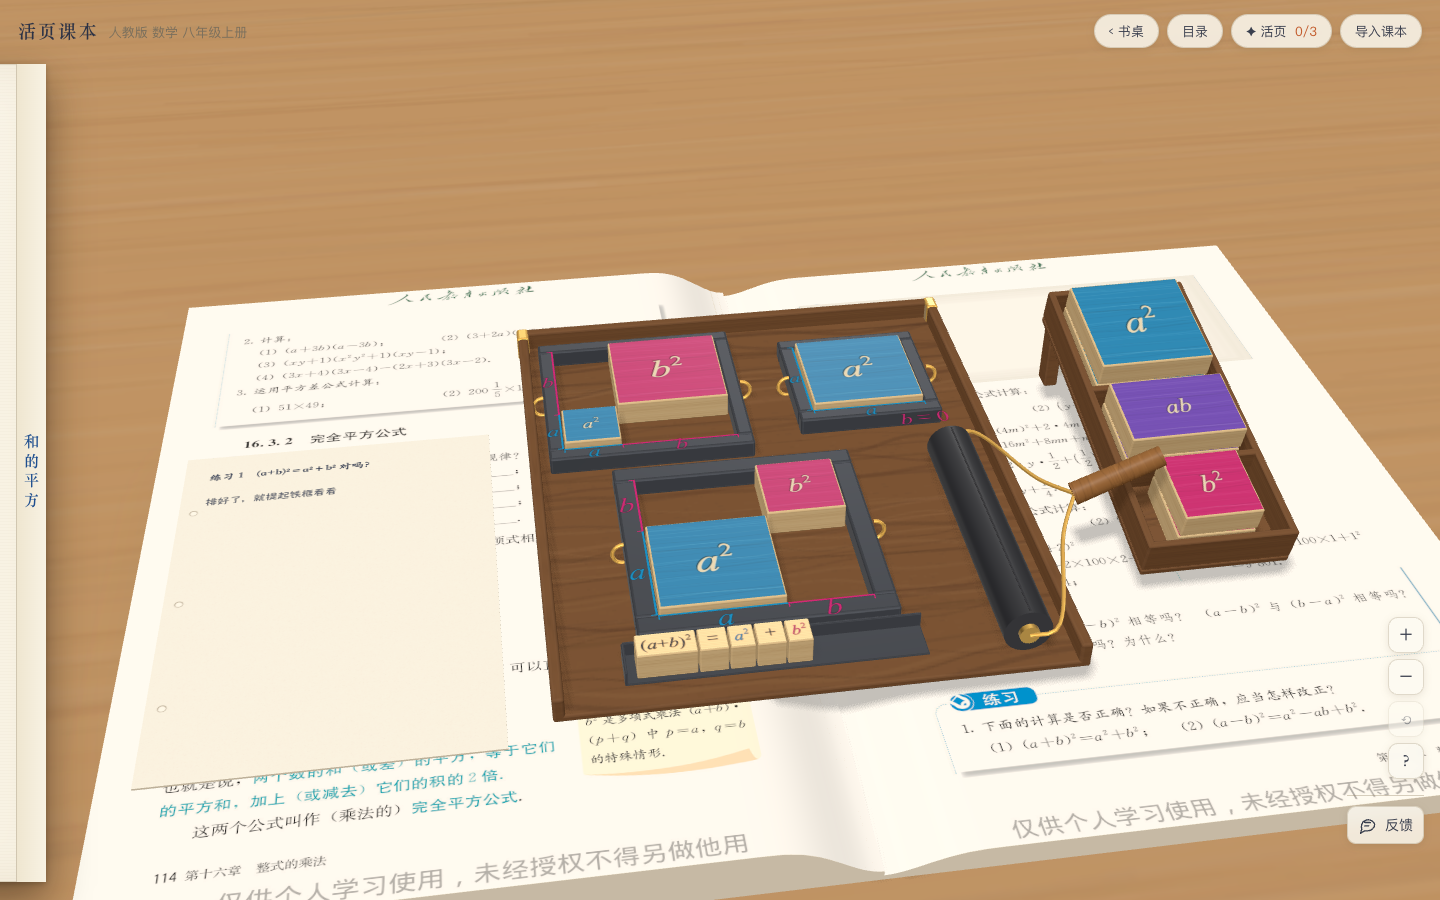
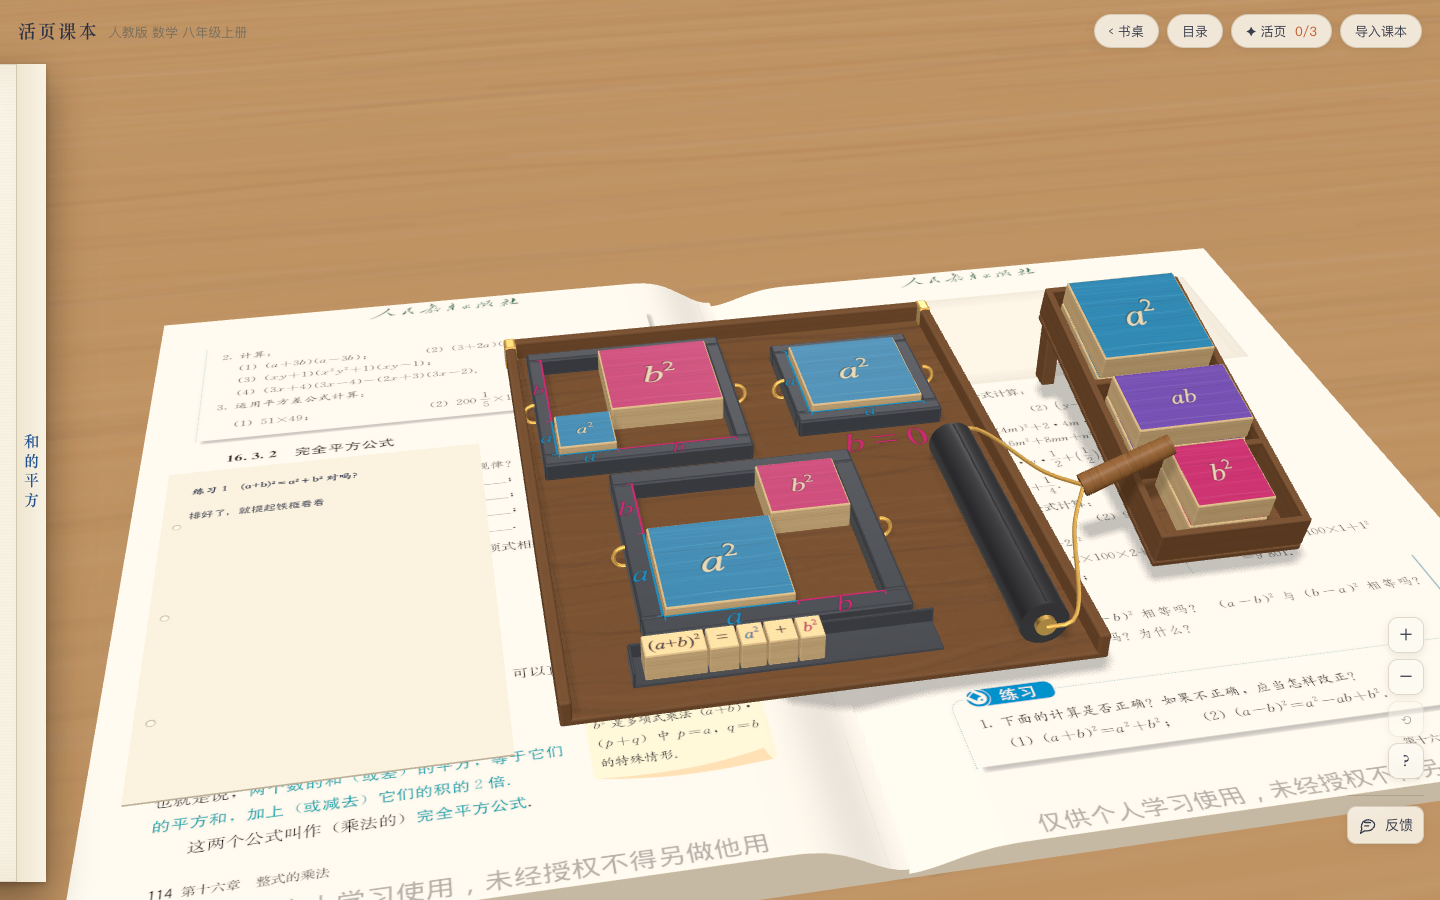
和的平方（试做）：提起铁框先一起升到顶、停半拍，没锁住的字块再滑出来摔下去；右后 b＝0 的框能拖框边换一个 b，自己找反例；a、b 字刻大，托盘木纹压淡

diff --git a/src/lessons/huozi.js b/src/lessons/huozi.js
@@ -123,19 +123,33 @@ export default {
     // ---- 铁框 ----
     const chases = [];
     const makeChase = (spec, isHero) => {
-      const C = cellsOf(spec.a, spec.b), Sz = C.S, front = [], left = [];
+      const c = { spec: { ...spec }, C: null, frame: null, hero: isHero, set: {}, proud: [], ok: false };
+      buildFrame(c);
+      chases.push(c);
+      return c;
+    };
+    function buildFrame(c) {
+      const spec = c.spec, isHero = c.hero, C = cellsOf(spec.a, spec.b), Sz = C.S, front = [], left = [];
+      if (c.frame) { root.remove(c.frame); c.frame.traverse((o) => { if (o.isMesh) o.geometry.dispose(); }); }
       if (spec.a) { front.push({ from: 0, to: spec.a * U, hue: HUE.a, label: 'a' }); left.push({ from: spec.b * U, to: Sz, hue: HUE.a, label: 'a' }); }
       if (spec.b) { front.push({ from: spec.a * U, to: Sz, hue: HUE.b, label: 'b' }); left.push({ from: 0, to: spec.b * U, hue: HUE.b, label: 'b' }); }
       const bar = isHero ? CHASE.bar : 0.009, frame = chaseFrame(Sz, Sz, { front, left, bar, labelH: isHero ? 0.017 : 0.014 });
       frame.position.set(spec.x, GF, spec.z);
+      frame.traverse((o) => { o.userData.noFrame = true; });
       root.add(frame);
-      if (!spec.b) { const t = labelMesh([['b', 'i'], ['＝0', 'n']], HUE.b, 0.014); t.position.set(Sz / 2 - 0.004, CHASE.h + 0.0003, Sz / 2 + bar + 0.0085); frame.add(t); }
-      const c = { spec, C, frame, hero: isHero, set: {}, proud: [], ok: false };
-      chases.push(c);
-      return c;
-    };
+      c.C = C; c.frame = frame;
+      if (c.resizable) {
+        // b＝0 写在框前面的托盘上，字大一点；右边一条看不见的拾取条，拖它就是改 b
+        if (c.zeroTag) { root.remove(c.zeroTag); c.zeroTag = null; }
+        if (!spec.b) { const t = labelMesh([['b', 'i'], ['＝0', 'n']], HUE.b, 0.024); t.position.set(spec.x + 0.006, GF + 0.0004, spec.z + Sz / 2 + bar + 0.012); root.add(t); c.zeroTag = t; }
+        // 只占右边框的后半截，前半截留给铜把手
+        const zd = Sz / 2 + bar - 0.015, pick = new THREE.Mesh(new THREE.BoxGeometry(bar + 0.012, 0.03, zd), new THREE.MeshBasicMaterial({ visible: false }));
+        pick.position.set(Sz / 2 + bar / 2 + 0.003, 0.012, -Sz / 2 - bar + zd / 2); pick.userData.pick = true; pick.userData.noFrame = true; frame.add(pick);
+        c.sizer = pick;
+      }
+    }
     const hero = makeChase(HERO, true);
-    const fam = FAM.map((f) => makeChase(f, false));
+    const fam = FAM.map((f, i) => { if (i === 1) { const c = { spec: { ...f }, C: null, frame: null, hero: false, set: {}, proud: [], ok: false, resizable: true }; buildFrame(c); chases.push(c); return c; } return makeChase(f, false); });
     const piecesOf = (c) => [...KEYS.map((k) => c.set[k]).filter(Boolean), ...c.proud];
     const locked = (c) => KEYS.every((k) => !live(c.C[k]) || c.set[k]) && !c.proud.length;
 
@@ -338,36 +352,36 @@ export default {
       S.busy = true;
       const res = chases.map((c) => (c.ok = locked(c)));
       const r = (k) => (Math.random() - 0.5) * k;
-      for (const c of chases) for (const p of piecesOf(c)) { p.v++; const [w, d] = dimsOf(p.kind, c.spec.a, c.spec.b); p.drop = { tx: r(0.012), tz: r(0.012), rx: r(0.36), rz: r(0.36), ry: r(0.25), half: Math.max(w, d) / 2 }; }
+      for (const c of chases) for (const p of piecesOf(c)) { p.v++; const [w, d] = dimsOf(p.kind, c.spec.a, c.spec.b); p.drop = { tx: r(0.012), tz: r(0.012), rx: r(0.36), rz: r(0.36), ry: r(0.25), half: Math.max(w, d) / 2, jx: r(0.004), jz: r(0.004) }; }
       sfx.whoosh({ dur: 0.5, freq: 280, gain: 0.05 });
       let rang = false;
-      const D = 2.7, up = (t) => (t < 0.55 ? easeOut(t / 0.55) : t < 2 ? 1 : 1 - smooth(clamp((t - 2) / 0.65, 0, 1)));
+      // 0–0.55 一起升上去；停到 0.85；没锁住的先晃一下（0.85–0.97），再滑出来往下掉（0.97–1.22），落地弹一下、歪倒；2.3 起铁框放下，字块摆正
+      const D = 2.95, T0 = 0.85, T1 = 0.97, T2 = 1.22, DOWN = 2.3;
+      const up = (t) => (t < 0.55 ? easeOut(t / 0.55) : t < DOWN ? 1 : 1 - smooth(clamp((t - DOWN) / 0.6, 0, 1)));
       tw.to(D, (k) => {
         const t = k * D, e = up(t);
         for (const c of chases) {
           c.frame.position.y = GF + LIFT * e;
           for (const p of piecesOf(c)) {
             const b = p.base; if (!b) continue;
-            if (c.ok) { p.g.position.set(b.x, b.y + LIFT * e, b.z); p.g.rotation.set(0, b.ry, 0); continue; }
-            // 没锁住：被铁框带起来一截，接着滑出来，摔回托盘上歪倒；铁框放下时摆正
-            const T0 = 0.3, T1 = 0.56, top = LIFT * up(T0) * 0.85;
-            let y = b.y;
-            if (t < T0) y = b.y + LIFT * up(t) * 0.85;
-            else if (t < T1) { const f = (t - T0) / (T1 - T0); y = b.y + top * (1 - f * f); }
-            else if (t < T1 + 0.14) y = b.y + Math.sin((Math.PI * (t - T1)) / 0.14) * 0.004;
-            const tilt = t < T1 ? 0 : t < T1 + 0.12 ? (t - T1) / 0.12 : t < 2 ? 1 : 1 - smooth(clamp((t - 2) / 0.65, 0, 1));
+            if (c.ok || t < T0) { p.g.position.set(b.x, b.y + LIFT * e, b.z); p.g.rotation.set(0, b.ry, 0); continue; }
+            let y = b.y, jig = 0;
+            if (t < T1) { y = b.y + LIFT; jig = Math.sin(((t - T0) / (T1 - T0)) * Math.PI * 3) * (1 - (t - T0) / (T1 - T0)); }
+            else if (t < T2) { const f = (t - T1) / (T2 - T1); y = b.y + LIFT * (1 - f * f); }
+            else if (t < T2 + 0.14) y = b.y + Math.sin((Math.PI * (t - T2)) / 0.14) * 0.004;
+            const tilt = t < T2 ? 0 : t < T2 + 0.12 ? (t - T2) / 0.12 : t < DOWN ? 1 : 1 - smooth(clamp((t - DOWN) / 0.6, 0, 1));
             const ax = p.drop.rx * tilt, az = p.drop.rz * tilt;
-            p.g.position.set(b.x + p.drop.tx * tilt, y + p.drop.half * Math.sin(Math.max(Math.abs(ax), Math.abs(az))), b.z + p.drop.tz * tilt);
+            p.g.position.set(b.x + p.drop.tx * tilt + p.drop.jx * jig, y + p.drop.half * Math.sin(Math.max(Math.abs(ax), Math.abs(az))), b.z + p.drop.tz * tilt + p.drop.jz * jig);
             p.g.rotation.set(ax, b.ry + p.drop.ry * tilt, az);
           }
         }
-        if (t > 0.56 && !rang) { rang = true; if (res.every(Boolean)) sfx.ding(660, { gain: 0.06 }); else clatter(); }
+        if (t > T0 && !rang) { rang = true; if (res.every(Boolean)) sfx.ding(660, { gain: 0.06 }); else setTimeout(() => { if (!dead) clatter(); }, (T2 - T0) * 1000); }
       }, () => {
         for (const c of chases) { c.frame.position.y = GF; for (const p of piecesOf(c)) if (p.base) { p.g.position.set(p.base.x, p.base.y, p.base.z); p.g.rotation.set(0, p.base.ry, 0); } }
         S.busy = false; S.lifted++; S.liftedSince = true; S.last = res; hint();
       });
     }
-    const handleTaps = chases.flatMap((c) => c.frame.handles.map((h) => ({ obj: h, enabled: () => !S.busy && !S.rolling, hint: () => '提起铁框：排满了，整版一起起来', onTap: lift })));
+    const handleTaps = chases.flatMap((c) => [0, 1].map((i) => ({ get obj() { return c.frame.handles[i]; }, enabled: () => !S.busy && !S.rolling, hint: () => '提起铁框：排满了，整版一起起来', onTap: lift })));
 
     // ---- 墨辊和印 ----
     const yFloor = GF + ROLL.r, yTop = GF + TYPE_H + 0.0012 + ROLL.r, yPaper = 0.0004 + ROLL.r;
@@ -436,7 +450,26 @@ export default {
       },
     };
 
+    const sizeC = fam[1], B_MAX = 1.5;
+    let sizeFrom = null;          // 拖框边从哪儿开始、那时 b 是多少：拖多少改多少，不会一抓就跳
+    const resize = (b) => {
+      if (Math.abs(b - sizeC.spec.b) < 1e-6) return;
+      for (const p of piecesOf(sizeC)) killPiece(p);
+      sizeC.set = {}; sizeC.proud = [];
+      sizeC.spec.b = b; buildFrame(sizeC);
+      syncFamily(0); S.liftedSince = false; S.last = null; hint();
+      sfx.clink({ freq: 900 + 160 * b, gain: 0.02 });
+    };
+    const sizeDrag = {
+      get obj() { return sizeC.sizer; }, plane: 'xz', offset: GF + CHASE.h,
+      enabled: () => !S.busy && !S.rolling,
+      hint: () => '拖框边：把 <i>b</i> 换一个数',
+      onStart: (q) => { S.held = 'sizer'; sizeFrom = q ? [q.x, sizeC.spec.b] : null; },
+      onDrag: (q) => { if (!sizeFrom) { sizeFrom = [q.x, sizeC.spec.b]; return; } resize(clamp(Math.round((sizeFrom[1] + (2 * (q.x - sizeFrom[0])) / U) * 4) / 4, 0, B_MAX)); },
+      onEnd: () => { S.held = null; },
+    };
     const pointer = draggable(root, drags, { tip, taps: [...handleTaps, ...gapTaps] });
+    drags.push(sizeDrag);
     drags.push(...caseDrags, rollDrag);
 
     // ---- 取景：只认这个看不见的盒子 ----
@@ -456,12 +489,12 @@ export default {
         return say('多出来的字块，印到正方形外面去了', '多放的字块搁在别的字上面，印出来叠在一起：<b>多了</b>。<br>把多的拿回字盘，再印一次。');
       }
       if (!any) return say('照你想的排：(a+b)² 用哪几块字？', '课本练习问：(<i>a</i>＋<i>b</i>)²＝<i>a</i>²＋<i>b</i>² 对吗？<br>从右边的<b>字盘</b>里，把你觉得该用的字块拖进前面的铁框（点一下字盘也行）。手托上会排出你的式子。');
-      if (!S.liftedSince) return say('排好了，就提起铁框看看', '后面两个铁框大小不一样，也照你的排法排上了。<br>点铁框两边的<b>铜把手</b>，提起来：排满了，整版一起起来；没排满，字块会掉下去。');
+      if (!S.liftedSince) return say('排好了，就提起铁框看看', `后面两个铁框大小不一样，也照你的排法排上了${sizeC.spec.b ? '' : '（右后那个 <i>b</i>＝0，框边拖得动，可以换一个 <i>b</i>）'}。<br>点铁框两边的<b>铜把手</b>，提起来：排满了，整版一起起来；没排满，字块会掉下去。`);
       const [h, ...f] = S.last || [];
       if (h && f.every(Boolean)) return say('三版都提起来了。推墨辊，印到活页上', '三个大小的版都排满了，整版提了起来：不管 <i>a</i>、<i>b</i> 多大，都是 <i>a</i>²、<i>ab</i>、<i>ab</i>、<i>b</i>² 四块。<br>把<b>墨辊</b>往左推：滚过字版和手托，再滚到左边的活页上。');
       const gaps = KEYS.filter((k) => live(hero.C[k]) && !hero.set[k]).length, held = f.map((x, i) => (x ? i : -1)).filter((i) => i >= 0);
-      const zero = held.some((i) => !FAM[i].b);
-      if (!h && gaps) return say(`前面这版掉了：框里还空着 ${gaps} 块`, `提起来，前面这一版的字块<b>掉了</b>：框里还空着 ${gaps} 块。${zero ? '后面 <i>b</i>＝0 的那一版倒是提起来了——那里根本没有中间那两块。' : ''}<br>把鼠标移到空着的地方，看看它的两条边是什么。`);
+      const zero = held.some((i) => !fam[i].spec.b);
+      if (!h && gaps) return say(`前面这版掉了：框里还空着 ${gaps} 块`, `提起来，前面这一版的字块<b>掉了</b>：框里还空着 ${gaps} 块。${zero ? '后面 <i>b</i>＝0 的那一版倒是提起来了——那里根本没有中间那两块。拖它的框边，把 <i>b</i> 换个数再提一次。' : ''}<br>把鼠标移到空着的地方，看看它的两条边是什么。`);
       if (!h) return say('多放了字块，锁不住', '有字块没地方放，搁在别的字上面，铁框锁不住，提起来就掉。<br>把多的拖回字盘。');
       return say('前面这版提起来了，后面的呢？', '前面这一版排满了。后面不同大小的版，有没有掉下去的？');
     }
@@ -476,7 +509,7 @@ export default {
       place: 'spread',
       scale: 1,
       size: { w: 0.6, d: 0.345, h: 0.07 },
-      view: { elev: 37, azim: -8, lookY: 0.2, frameMargin: 1.0 },
+      view: { elev: 35, azim: -10, lookY: 0.2, frameMargin: 0.97 },
       pointer,
       mount(u) { ui = u; hint(); },
       dispose() { dead = true; tip?.remove?.(); },
@@ -497,7 +530,7 @@ export default {
         for (const c of chases) for (const o of c.frame.children) if (o.userData.handle) o.rotation.x = wantLift ? -0.35 * bump : 0;
         if (!S.rolling && S.last && S.last.every(Boolean) && S.liftedSince && S.ink !== 'printed') rol.spin.rotation.z = (ROLL.rest - S.rx) / ROLL.r + 0.25 * bump;
       },
-      test: { S, hero, fam, chases, U, HERO, ROLL, STICK, lift, setRoll, locked, put: (kind) => { const p = makePiece(kind, HERO.a, HERO.b); p.g.position.set(CASE.x, HOLD, CASE.z); putHero(p); return p; }, take: (key) => { const p = hero.set[key]; if (p) toCase(p); }, stackAt: (kind) => { root.updateMatrixWorld(true); return root.worldToLocal(stackTop[kind].getWorldPosition(new THREE.Vector3())).toArray(); }, handleAt: () => { root.updateMatrixWorld(true); return root.worldToLocal(hero.frame.handles[1].getWorldPosition(new THREE.Vector3())).toArray(); } },
+      test: { S, hero, fam, chases, U, HERO, ROLL, STICK, lift, setRoll, locked, resize, sizerAt: () => { root.updateMatrixWorld(true); return root.worldToLocal(sizeC.sizer.getWorldPosition(new THREE.Vector3())).toArray(); }, put: (kind) => { const p = makePiece(kind, HERO.a, HERO.b); p.g.position.set(CASE.x, HOLD, CASE.z); putHero(p); return p; }, take: (key) => { const p = hero.set[key]; if (p) toCase(p); }, stackAt: (kind) => { root.updateMatrixWorld(true); return root.worldToLocal(stackTop[kind].getWorldPosition(new THREE.Vector3())).toArray(); }, handleAt: () => { root.updateMatrixWorld(true); return root.worldToLocal(hero.frame.handles[1].getWorldPosition(new THREE.Vector3())).toArray(); } },
     };
   },
 };

diff --git a/src/lessons/kit/type.js b/src/lessons/kit/type.js
@@ -40,15 +40,15 @@ export function envTick() {
 const rng = (seed) => { let s = seed % 2147483647 || 1; return () => ((s = (s * 16807) % 2147483647) / 2147483647); };
 const woodCache = new Map();
 /** 顺纹的木头：年轮细线沿着贴图的横向走 */
-export function wood({ base = '#e0c597', dark = '#9b7442', light = '#f3e2bd', rings = 54, seed = 7 } = {}) {
-  const key = [base, dark, light, rings, seed].join();
+export function wood({ base = '#e0c597', dark = '#9b7442', light = '#f3e2bd', rings = 54, seed = 7, contrast = 1 } = {}) {
+  const key = [base, dark, light, rings, seed, contrast].join();
   if (woodCache.has(key)) return woodCache.get(key);
   const w = 512, h = 256, c = document.createElement('canvas'); c.width = w; c.height = h;
   const g = c.getContext('2d'), rnd = rng(seed);
   g.fillStyle = base; g.fillRect(0, 0, w, h);
   for (let i = 0; i < rings; i++) {
     const y0 = rnd() * h, amp = 1.5 + rnd() * 5, f = 0.004 + rnd() * 0.012, ph = rnd() * 6.28;
-    g.strokeStyle = rnd() < 0.72 ? dark : light; g.globalAlpha = 0.1 + rnd() * 0.2; g.lineWidth = 0.6 + rnd() * 2.4;
+    g.strokeStyle = rnd() < 0.72 ? dark : light; g.globalAlpha = (0.1 + rnd() * 0.2) * contrast; g.lineWidth = 0.6 + rnd() * 2.4;
     g.beginPath();
     for (let x = 0; x <= w; x += 8) { const y = y0 + Math.sin(x * f + ph) * amp + Math.sin(x * f * 3.3 + ph * 2) * amp * 0.35; if (x) g.lineTo(x, y); else g.moveTo(x, y); }
     g.stroke();
@@ -67,7 +67,7 @@ export function mats() {
   if (MAT) return MAT;
   MAT = {
     maple: new THREE.MeshStandardMaterial({ map: wood(), roughness: 0.62, metalness: 0 }),
-    walnut: new THREE.MeshStandardMaterial({ map: wood({ base: '#7b5536', dark: '#4a3020', light: '#97704c', seed: 3, rings: 60 }), roughness: 0.55, metalness: 0 }),
+    walnut: new THREE.MeshStandardMaterial({ map: wood({ base: '#7b5536', dark: '#4a3020', light: '#97704c', seed: 3, rings: 60, contrast: 0.55 }), roughness: 0.55, metalness: 0 }),
     iron: envFor(new THREE.MeshStandardMaterial({ color: 0x34373d, roughness: 0.46, metalness: 0.72 }), 0.85),
     brass: envFor(new THREE.MeshStandardMaterial({ color: 0xc19a4b, roughness: 0.3, metalness: 0.92 }), 1),
     rubber: envFor(new THREE.MeshStandardMaterial({ color: 0x1d1e22, roughness: 0.32, metalness: 0 }), 0.55),

diff --git a/research/数学活起来-活字/codex-评审.md b/research/数学活起来-活字/codex-评审.md
@@ -1,0 +1,21 @@
+**1. 八年级数学老师**
+
+我会投第②幕，提框前先让全班猜哪一版会掉。现在直接放，后排最容易看见字块摔了，却看不清右后框边那个小小的 b＝0。学生笑完，很可能以为自己没把砖摆稳。先让一个学生指着前框的两块空白，分别说出横着那块和竖着那块的长和宽。两声“ab”比老师报出“漏了 2ab”管用。
+
+面积拼图可以是证明。只要说清对任意正边长 a、b，沿分点切开都恰好得到这四块，就证明了正数情形。三个框一起提，也只检验了三个例子。要把结论推到任意实数，回到课本写出 (a+b)(a+b) 的展开。
+
+**2. 看惯 AI 课件的创意开发者**
+
+第一眼 6/10。第①张确实像代数砖换了木皮。看见第②张我才愿意停下来。同一排法，两框落字，一框带字起来，一张图里就有冲突。最露怯的是第④张，整页最黑、最抢眼的墨辊，正压着辛苦印出来的答案。我先改三处。
+
+- 镜头推近，裁掉上方大半片空桌，留住书脊和页码。放大三个框边的 a、b，尤其把 b＝0 挪到右后框前沿正中，让投影后排也读得到。
+- 把第②张厚木托盘的纹理压淡。提框时先同步升到同一高度，停半拍，再让两版的字块滑落。停在空框和落字已经分开的瞬间，右后那块青砖始终跟框走。
+- 印完让墨辊滚出纸边再停。把纸上方那行小字省下来的位置给印式，让人同时看全两块紫色 ab 和下面的 2ab。
+
+**3. 数学教育研究者**
+
+落实了一半。学生少排两块，纸上就真能留下两个洞，这算运行了他的想法。但如果一掉就提示补块，学生只需把洞填满，根本不用判断原式何时成立。
+
+最缺的是让学生决定下一次怎么检验。先保留 a²+b² 的错版和印样，让他选一组 a、b，预言能不能整版提起，再跑。问他“b＝0 的确成功了，你能选一组数推翻‘总是成功’吗？”最后让他在错印上圈出两块白，说明为什么只要 a、b 都为正，它们就一定有面积。这一步才把一次吻合、一个反例和一般理由分开。
+
+只给作者看第②张，因为同一个猜想在两处摔了、在一处站住了，学生有理由追问“凭什么偏偏它行”。
